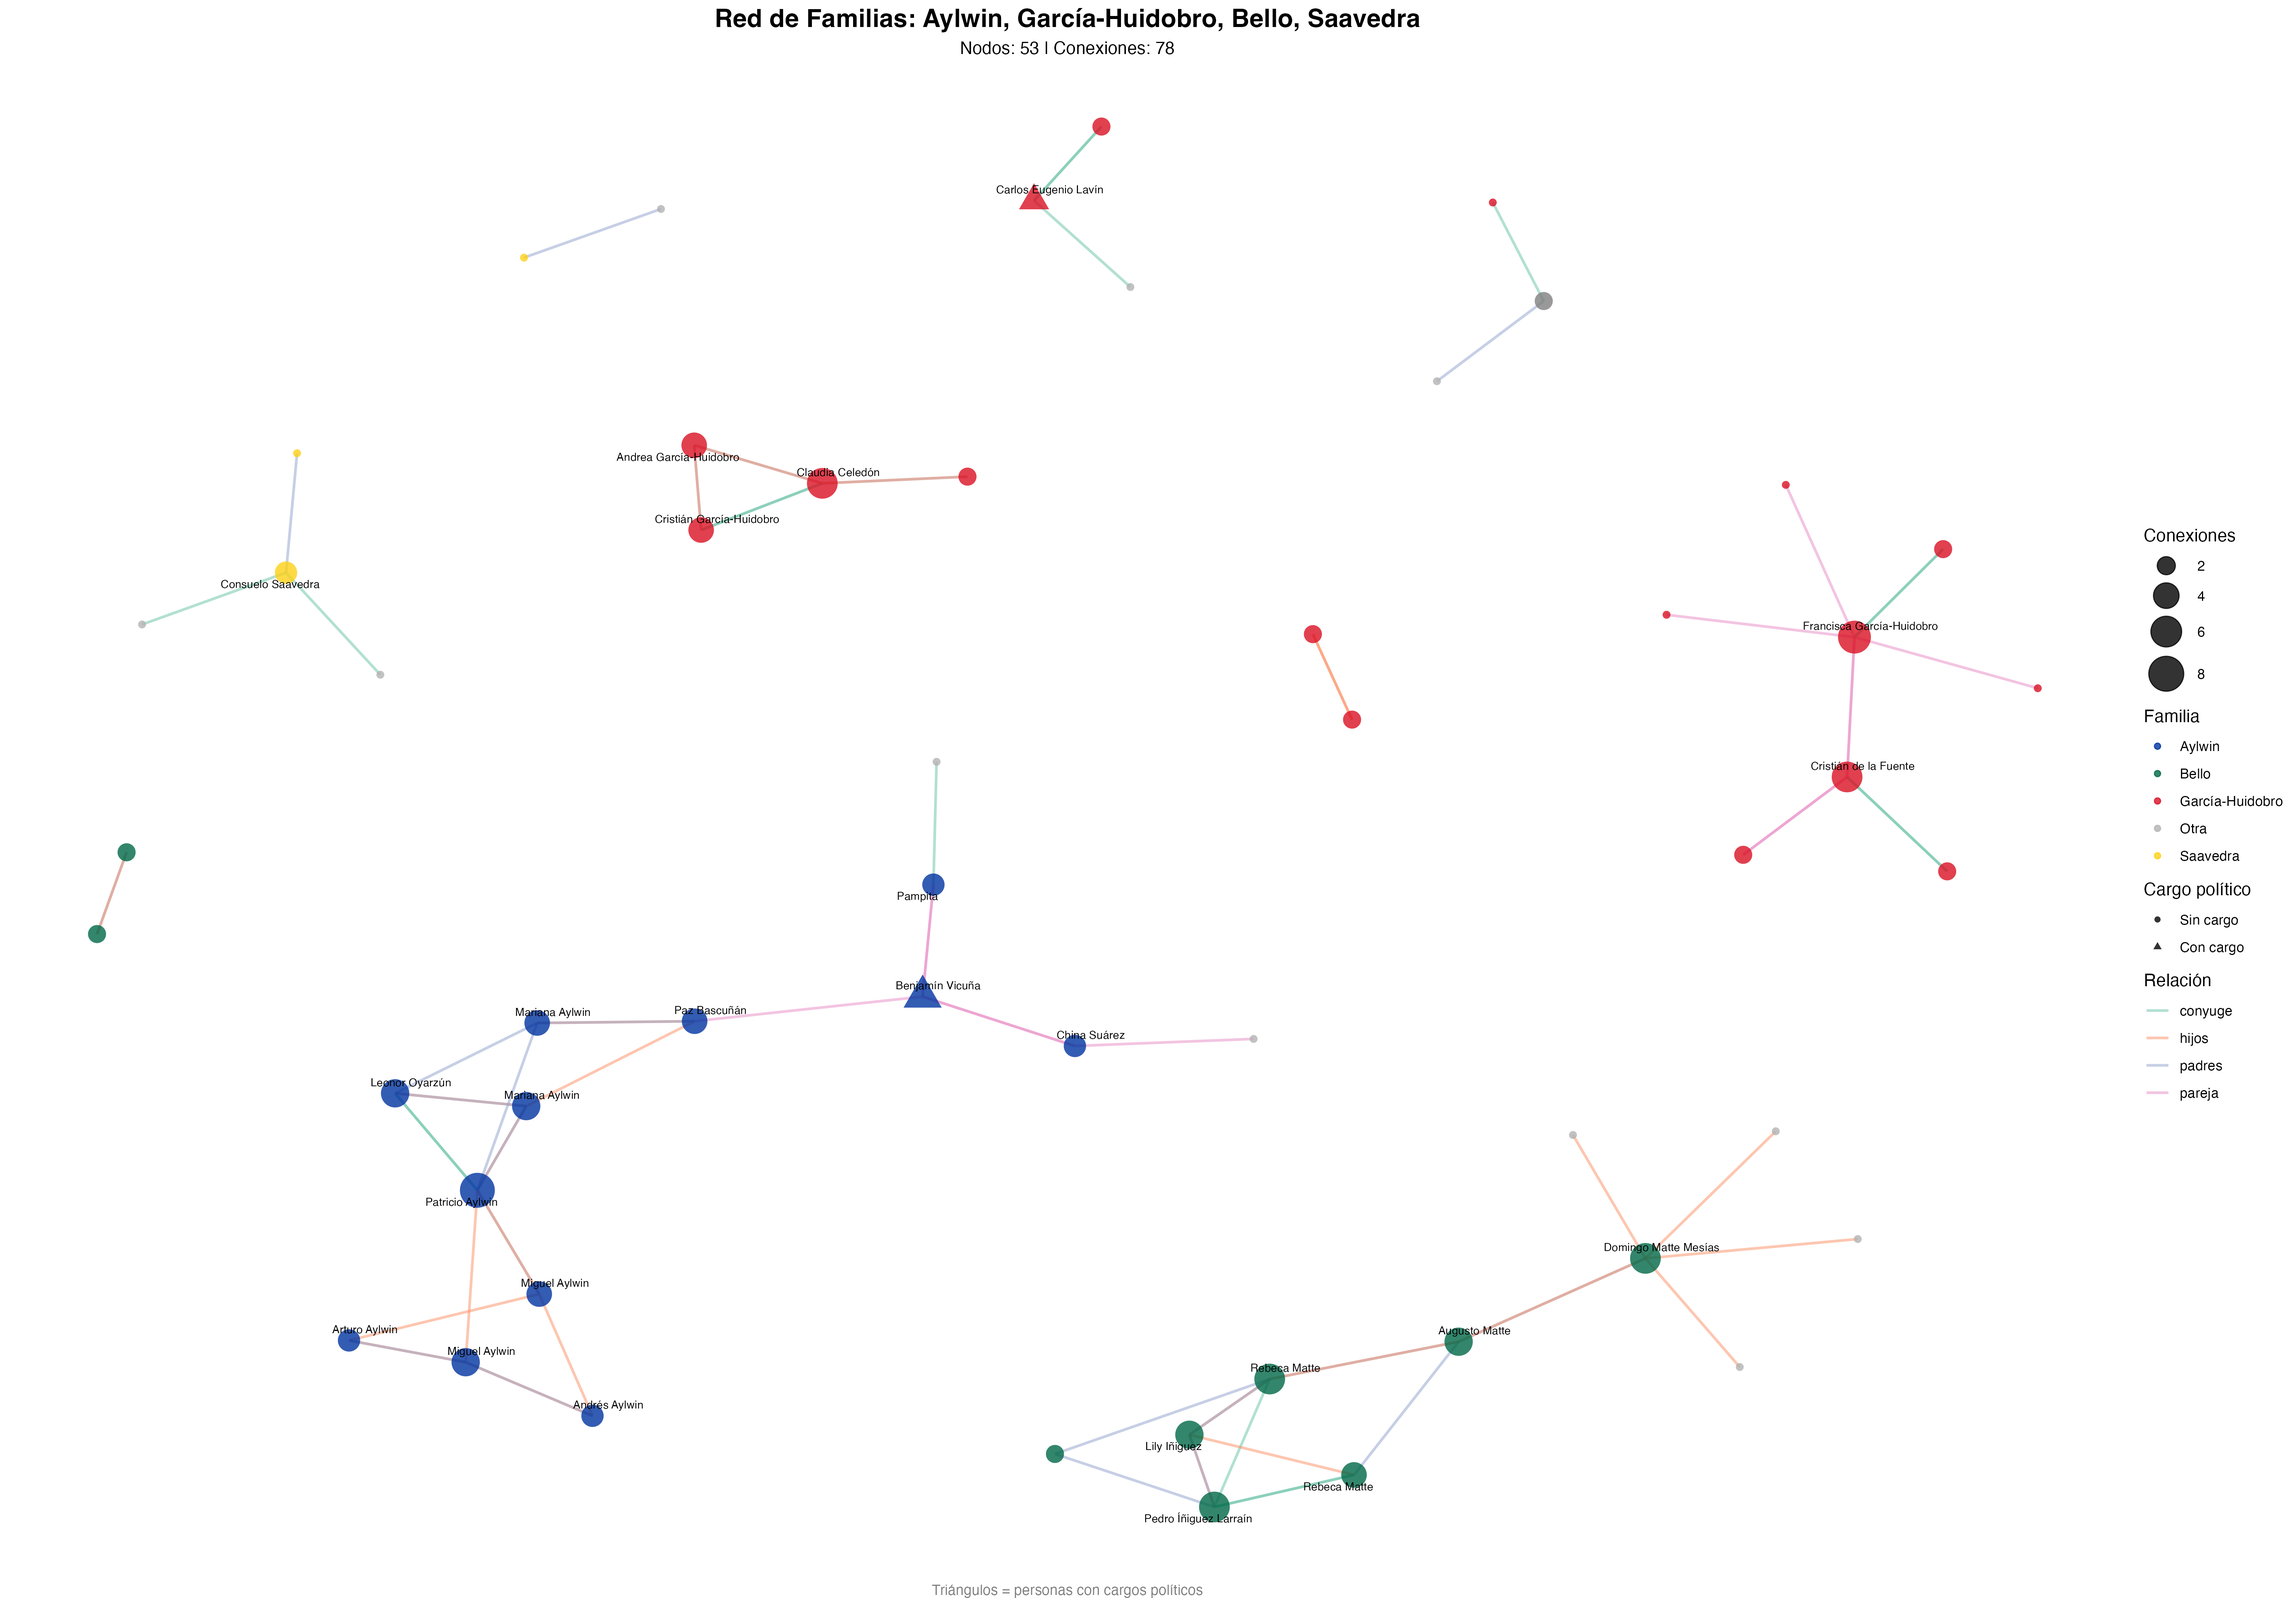
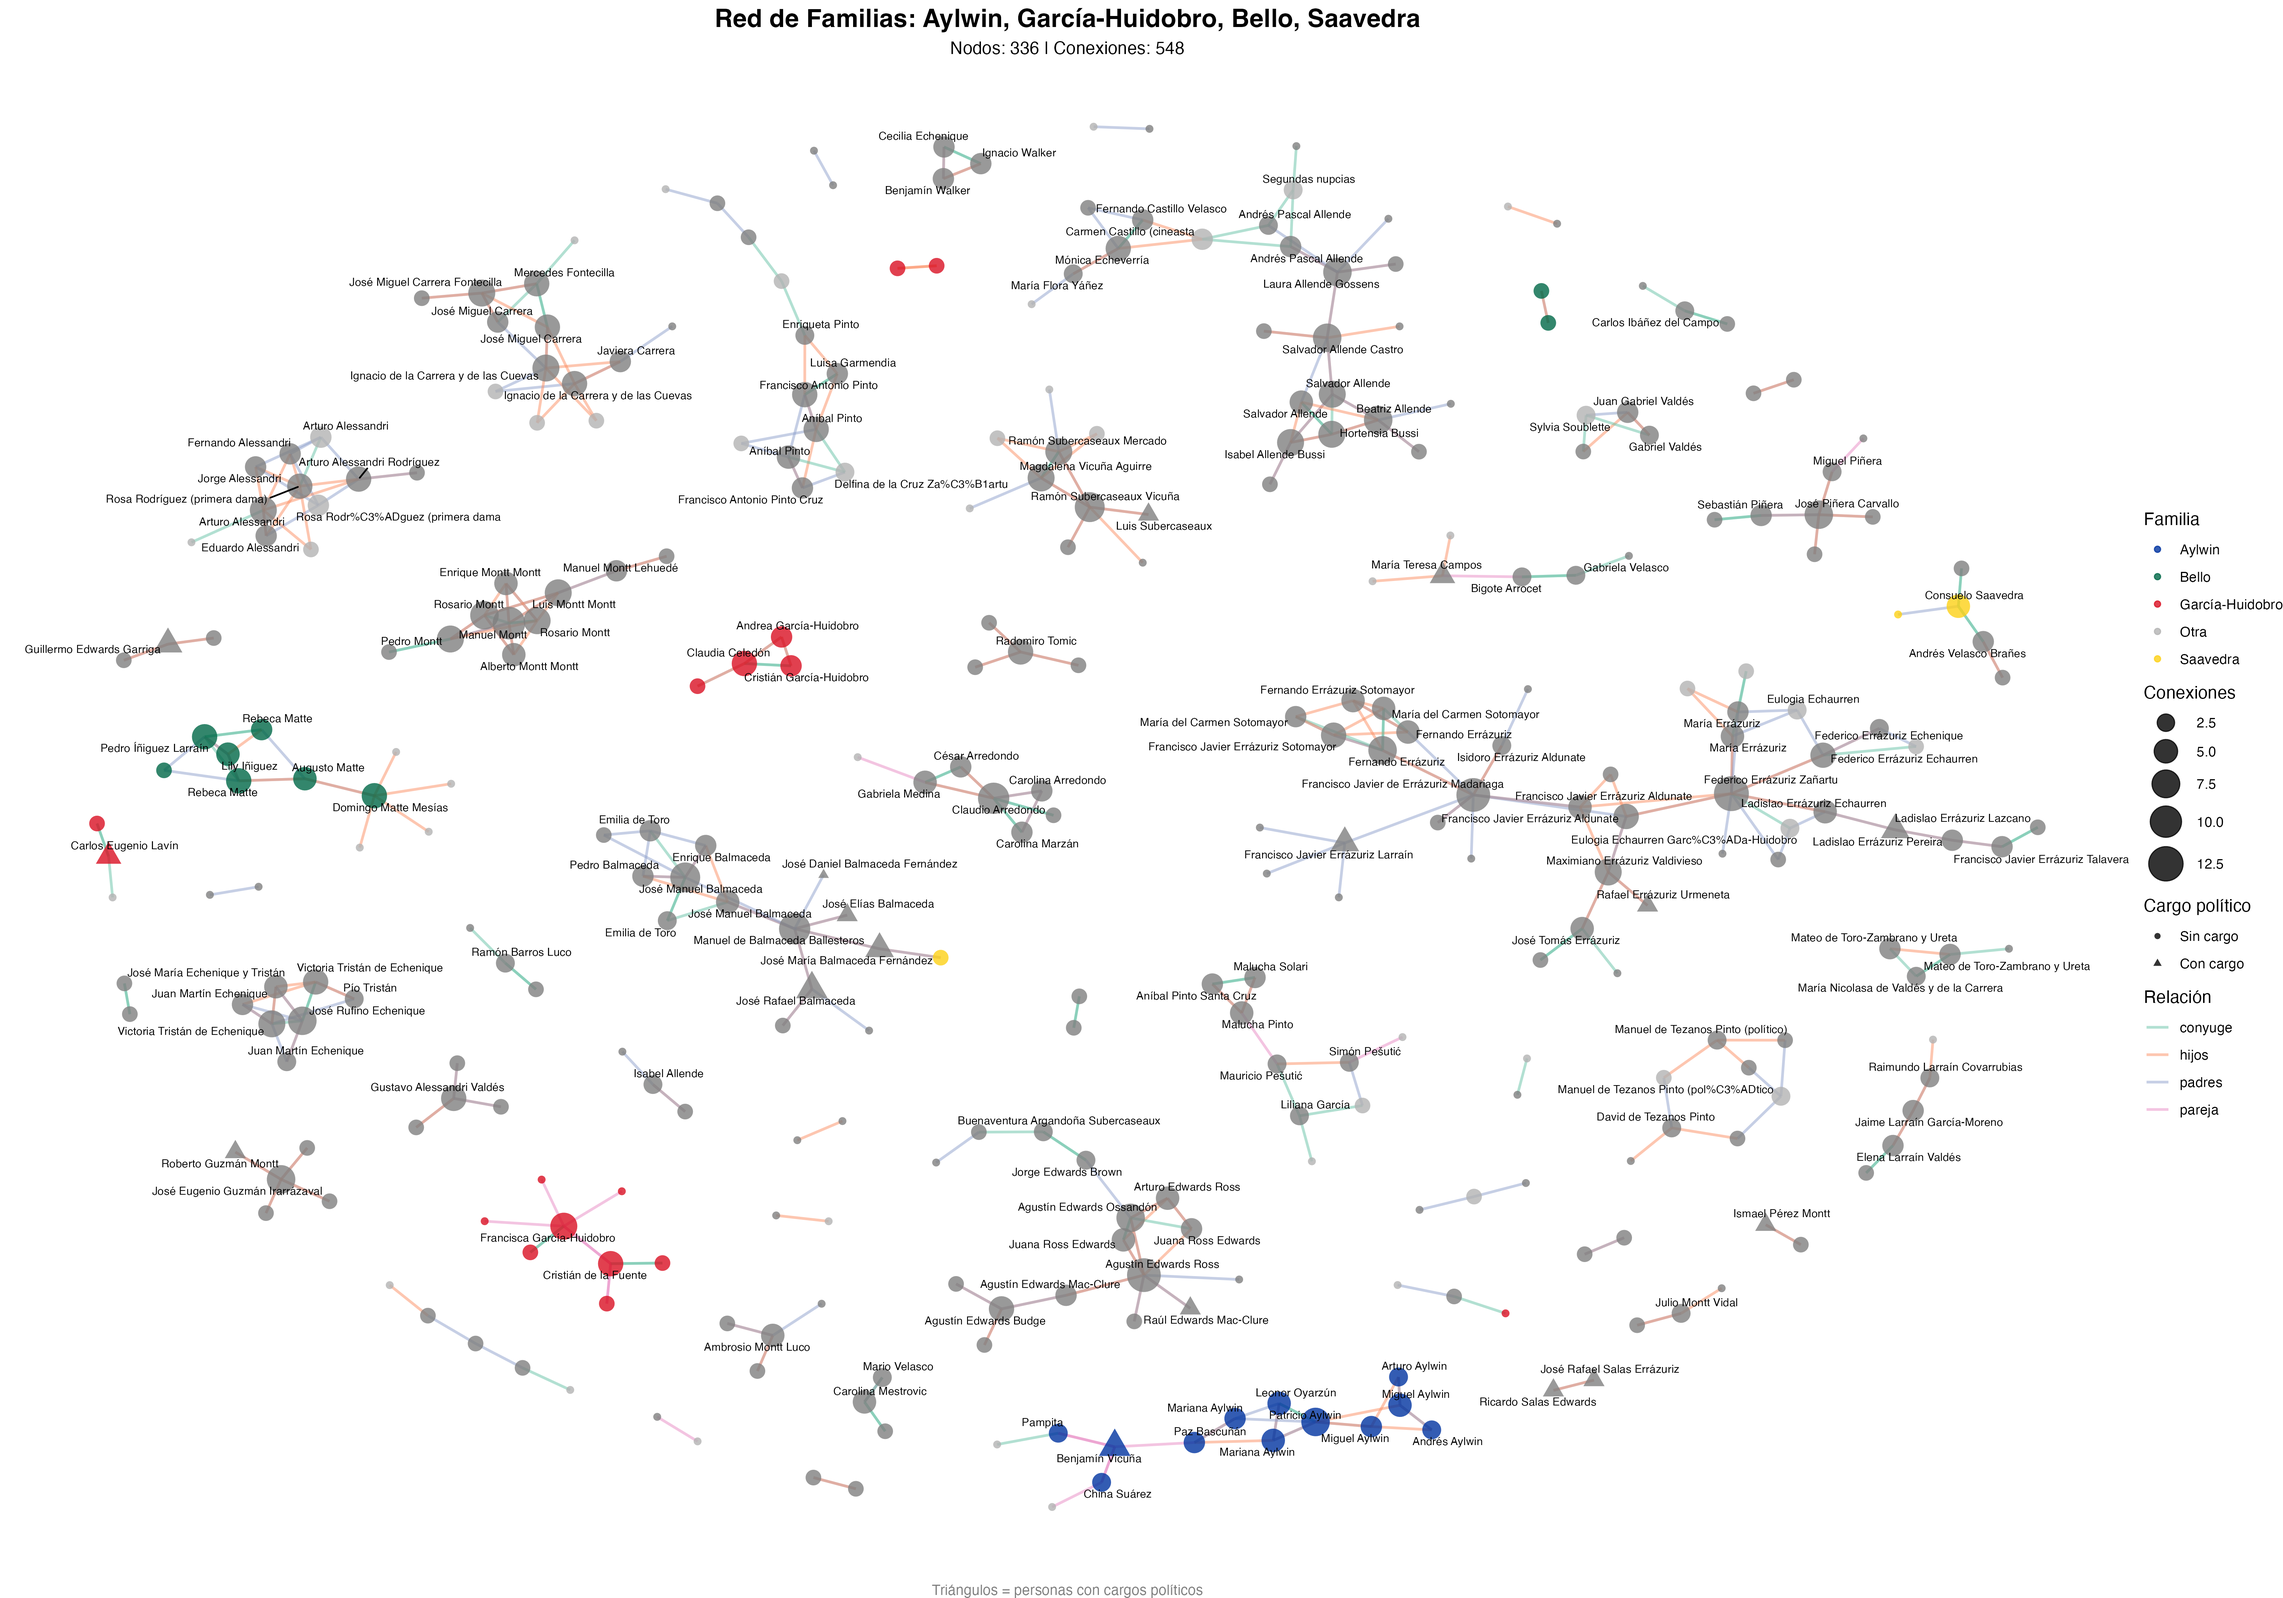
up

diff --git a/docs/presentation-comptext/presentation.html b/docs/presentation-comptext/presentation.html
@@ -475,6 +475,13 @@ Matías Deneken
 <p>Node size = degree centrality. Color = family surname cluster. Each panel = one national kinship subgraph (Fruchterman-Reingold layout).</p>
 </div>
 </section>
+<section id="h2-chile-interfamily-animated" class="slide level2">
+<h2>H2: Chile Interfamily (Animated)</h2>
+
+<img data-src="images/red_familias_chile_animada.gif" class="quarto-figure quarto-figure-center r-stretch" style="display:block; margin:0 auto;  max-"><div style="font-size:0.48em; color:#60748e; text-align:center;">
+<p>Animated reveal of Chile interfamily elite ties. Highlighted labels are top families by degree centrality.</p>
+</div>
+</section>
 <section id="h2-four-topology-types" class="slide level2">
 <h2>H2: Four Topology Types</h2>
 <div class="columns">
@@ -775,8 +782,7 @@ Matías Deneken
 </section>
 <section id="h4-structural-brokers" class="slide level2">
 <h2>H4: Structural Brokers</h2>
-
-<img data-src="image/h4_centrality_vs_family_closure.png" class="r-stretch quarto-figure quarto-figure-center"><div style="font-size:0.48em; color:#60748e; text-align:center;">
+<div style="font-size:0.48em; color:#60748e; text-align:center;">
 <p>Top brokers by betweenness centrality in the multiplex graph (kinship + party + university + political succession).</p>
 </div>
 </section>
